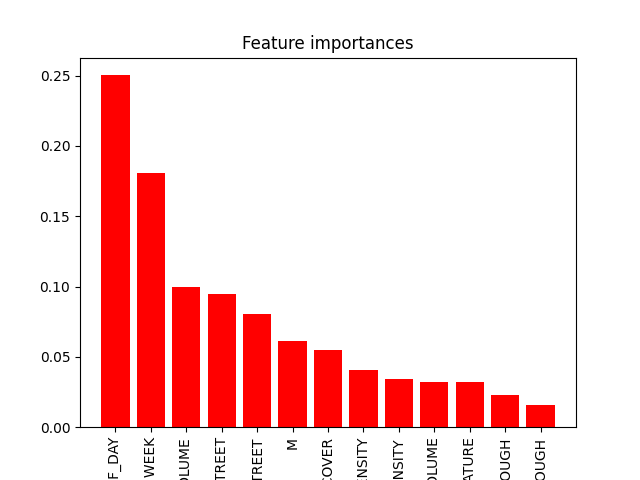
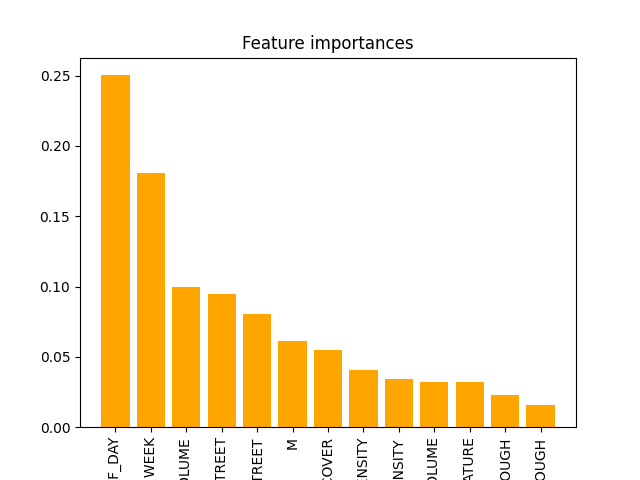
modifica colori grafici

Changed region(s): [[0.1562, 0.1562, 0.875, 0.9062]]

diff --git a/supervised/classifier.py b/supervised/classifier.py
@@ -18,7 +18,7 @@ def printFeatureRanking(clf, X, path):
     # Plotting dell'importanza delle feature
     plt.figure()
     plt.title("Feature importances")
-    plt.bar(range(X.shape[1]), importances[indices], color="r", align="center")
+    plt.bar(range(X.shape[1]), importances[indices], color="orange", align="center")
     plt.xticks(range(X.shape[1]), [categorical_features[i] if i<len(categorical_features) else numeric_features[i-len(categorical_features)] for i in indices], rotation=90)
     plt.xlim([-1, X.shape[1]])
 
@@ -39,7 +39,7 @@ X = data[categorical_features + numeric_features]
 print("---DECISION TREE---")
 clf = decisionTree(data, categorical_features, numeric_features, target)
 printFeatureRanking(clf, X, "images/features/dt_feature.png" )
-
+""""
 print("---RANDOM FOREST---")
 clf = randomForest(data, categorical_features, numeric_features, target)
 printFeatureRanking(clf, X, "images/features/rf_feature.png" )
@@ -54,4 +54,4 @@ printFeatureRanking(clf, X, "images/features/gb_feature.png" )
 
 print("---NAIVE BAYES CATEGORICAL---")
 clf = naiveBayesCategorical(data, categorical_features, target)
-
+"""
